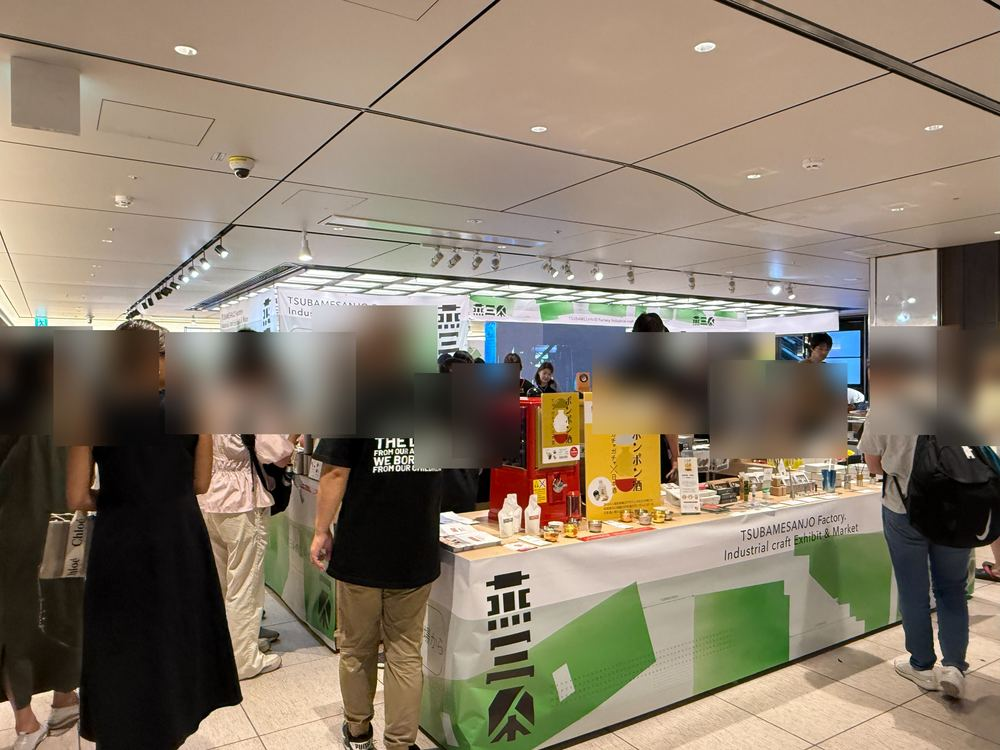
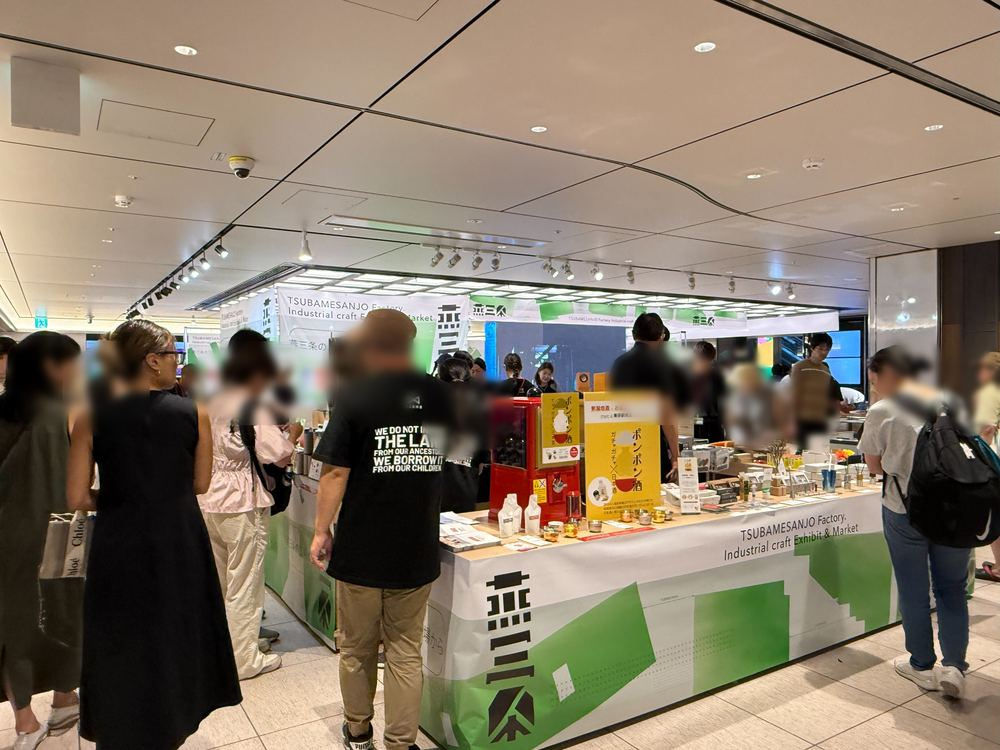
Address photo/content feedback: hero, blur, zones, exhibitor cards, floor map
- Hero: replace the crowded event photo with a no-people product shot
  (諏訪田製作所's corkscrew display) so the page doesn't need any face
  blurring at the top, and regenerate the OGP image from it.
- Blur: rework about/gallery photo blurring to use a small, softly
  feathered ellipse per face instead of large hard-edged rectangles —
  much lighter and less conspicuous.
- Buyer persona: clarify "バイヤー" as "小売店・セレクトショップの仕入れ担当"
  so it reads as a specific role, not a vague label.
- Zones: add a real representative photo to each of the 4 zone cards
  that have one available (産業's grinding shot, IPS's tools, 有本製作所's
  CNC machine, フチオカ's building), and a matching color tile for the
  two zones without photos (ふるさと納税PR, 技術展示) for visual parity.
- Exhibitor cards: add missing blurb text for IPS, サクライ, プログラフ,
  有本製作所, フチオカ based on their actual product/facility photos, and
  give IPS/サクライ/プログラフ/フチオカ multi-photo thumbnail rows using
  every usable image from their folders instead of just one.
- Floor map: resize the zone blocks proportionally to the real
  reference layout (配置図0829) — FACTORY LIMITED spans full width as
  the largest booth count, THE TSUBAMESANJO/名品展 are half-width, and
  STOCK MARKET/ふるさと納税PR/技術展示 are the smaller specialty booths.

Claude-Session: https://claude.ai/code/session_01YXakf9L2fjwv2f7a5ytL6q

Changed region(s): [[0.0, 0.3987, 0.527, 0.644], [0.589, 0.4293, 1.0, 0.6133]]

diff --git a/index.html b/index.html
@@ -166,6 +166,11 @@
   /* ---------- コーナー ---------- */
   .z-grid{display:grid;grid-template-columns:repeat(2,1fr);gap:.9rem}
   .z-card{background:#fff;border:1px solid var(--navy);border-radius:10px;overflow:hidden}
+  .z-card .thumb{width:100%;height:150px;object-fit:cover;display:block}
+  .z-card .tile-ph{
+    width:100%;height:150px;display:flex;align-items:center;justify-content:center;
+    font-family:var(--latin);letter-spacing:.06em;font-size:1rem;text-align:center;padding:.5rem;
+  }
   .z-card .head{padding:.6rem 1rem;font-weight:900;font-size:.92rem;display:flex;align-items:baseline;gap:.5rem;flex-wrap:wrap}
   .z-card .head .en{font-family:var(--latin);font-size:1.15rem;letter-spacing:.06em;font-weight:400}
   .z-card .body{padding:.8rem 1rem 1rem;font-size:.84rem;color:var(--ink-soft);font-weight:500;line-height:1.75}
@@ -183,8 +188,12 @@
     border-radius:10px;padding:1.1rem 1.2rem;
   }
   .floormap .label{font-size:.68rem;letter-spacing:.16em;color:#9A6B2F;font-weight:700;margin-bottom:.7rem}
-  .fm-grid{display:grid;grid-template-columns:2fr 1fr 1fr;gap:.4rem}
+  .fm-grid{display:grid;grid-template-columns:repeat(6,1fr);gap:.4rem}
   .fm{border-radius:5px;min-height:44px;display:flex;align-items:center;justify-content:center;font-size:.72rem;font-weight:900;text-align:center;padding:.2rem}
+  .fm.fm-wide{min-height:52px;grid-column:1 / -1}
+  .fm.fm-half{grid-column:span 3}
+  .fm.fm-third{grid-column:span 2}
+  @media(max-width:520px){.fm.fm-half,.fm.fm-third{grid-column:1 / -1}}
   .floormap .note{font-size:.72rem;color:#8A857A;font-weight:500;margin-top:.6rem}
 
   /* ---------- 出展企業 ---------- */
@@ -195,6 +204,8 @@
     border-left:4px solid var(--gold);
   }
   .e-card .thumb{width:100%;height:140px;object-fit:cover;border-radius:8px;margin-bottom:.7rem;display:block}
+  .e-card .thumb-row{display:grid;grid-template-columns:repeat(3,1fr);gap:.4rem;margin-bottom:.7rem}
+  .e-card .thumb-row img{width:100%;height:90px;object-fit:cover;border-radius:6px;display:block}
   .e-card .tile{
     width:100%;height:140px;border-radius:8px;margin-bottom:.7rem;
     display:flex;align-items:center;justify-content:center;text-align:center;padding:.5rem;
@@ -339,7 +350,7 @@
     </div>
 
     <div class="hero-photo photo">
-      <img src="img/hero.jpg" alt="燕三条POPUP & SHOWCASE 会場の様子（2025年開催時）" loading="eager">
+      <img src="img/hero.jpg" alt="燕三条の職人が手がけた製品（2025年開催時の展示より）" loading="eager">
     </div>
   </div>
 </header>
@@ -405,7 +416,7 @@
       </div>
       <div class="v-card">
         <span class="en">BUYER</span>
-        <h3>バイヤー</h3>
+        <h3>小売店・セレクトショップの仕入れ担当</h3>
         <p>次に扱う商材探しに。会場と同施設内の個室でそのまま商談できます。</p>
       </div>
     </div>
@@ -421,36 +432,42 @@
     <div class="z-grid">
       <div class="z-card">
         <div class="head c-gold"><span class="en">THE TSUBAMESANJO</span></div>
+        <img class="thumb" src="img/zone-tsubamesanjo.jpg" alt="諏訪田製作所の刃物研磨の様子">
         <div class="body">「見たことある」燕三条の定番製品を、実際に触れて購入できるメインコーナー。まずはここから。
           <p class="zone-co">出展：諏訪田製作所／山谷産業／タケダ／燕物産</p>
         </div>
       </div>
       <div class="z-card">
         <div class="head c-fire"><span class="en">FACTORY LIMITED</span></div>
+        <img class="thumb" src="img/zone-factorylimited.jpg" alt="株式会社IPSの工具製品">
         <div class="body">工場限定品・試作品・少量流通品など、市場にほとんど出回らない製品を工場直販で。
           <p class="zone-co">出展：IPS／テーエム／アイマーク／アルチザン／水野製作所／丸山製作所／プログラフ／熊倉シャーリング／大倉製作所／いすゞ製作所／サクライ／ツボエ</p>
         </div>
       </div>
       <div class="z-card">
         <div class="head c-steel"><span class="en">STOCK MARKET</span></div>
+        <img class="thumb" src="img/zone-stockmarket.jpg" alt="株式会社有本製作所の工場設備">
         <div class="body">デッドストックや規格外品を扱う掘り出し物コーナー。一期一会の出会いと価格が楽しめます。
           <p class="zone-co">出展：旭金属工業／有本製作所</p>
         </div>
       </div>
       <div class="z-card">
         <div class="head c-copper"><span class="en">MEIHIN-TEN</span>燕三条 名品展</div>
+        <img class="thumb" src="img/zone-meihinten.jpg" alt="株式会社フチオカの外観">
         <div class="body">高級包丁や銅器などの逸品を、ギャラリーのように展示。工芸としての燕三条を鑑賞できます。
           <p class="zone-co">出展：後藤鉄工所／フチオカ／下村工業／須佐真（金工作家）</p>
         </div>
       </div>
       <div class="z-card">
         <div class="head c-plum">ふるさと納税PR</div>
+        <div class="tile-ph" style="background:#5B4A7A;color:#fff">ふるさと納税PR</div>
         <div class="body">燕三条エリアの自治体による地域の魅力とふるさと納税のPRコーナー。
           <p class="zone-co">三条市ふるさと納税</p>
         </div>
       </div>
       <div class="z-card">
         <div class="head c-navy">技術展示</div>
+        <div class="tile-ph" style="background:#24304A;color:var(--paper)">技術展示・商談</div>
         <div class="body">プレス・溶接・研磨など、こうばの技術そのものを展示。製造依頼や商談の相談はこちらから。
           <p class="zone-co">出展：後藤鉄工所</p>
         </div>
@@ -460,14 +477,14 @@
     <div class="floormap">
       <div class="label">FLOOR MAP</div>
       <div class="fm-grid">
-        <div class="fm" style="background:var(--gold);color:var(--navy)">THE TSUBAMESANJO</div>
-        <div class="fm" style="background:var(--fire);color:#fff">FACTORY<br>LIMITED</div>
-        <div class="fm" style="background:#39404C;color:#fff">STOCK<br>MARKET</div>
-        <div class="fm" style="background:#B0662F;color:#fff">名品展</div>
-        <div class="fm" style="background:#5B4A7A;color:#fff">ふるさと納税PR</div>
-        <div class="fm" style="background:#24304A;color:#fff">技術展示・商談</div>
+        <div class="fm fm-wide" style="background:var(--fire);color:#fff">FACTORY LIMITED（入口側の通路沿い）</div>
+        <div class="fm fm-half" style="background:var(--gold);color:var(--navy)">THE TSUBAMESANJO（メインエリア）</div>
+        <div class="fm fm-half" style="background:#B0662F;color:#fff">名品展</div>
+        <div class="fm fm-third" style="background:#39404C;color:#fff">STOCK MARKET</div>
+        <div class="fm fm-third" style="background:#5B4A7A;color:#fff">ふるさと納税PR</div>
+        <div class="fm fm-third" style="background:#24304A;color:#fff">技術展示・商談ゾーン</div>
       </div>
-      <p class="note">※ 出展社の配置は変更となる場合があります。最新情報は会場内の表示でご確認ください。</p>
+      <p class="note">※ 実際の配置図をもとにした簡易図です。出展社の配置は変更となる場合があります。最新情報は会場内の表示でご確認ください。</p>
     </div>
   </div>
 </section>
@@ -511,16 +528,31 @@
         <p>燕市の金属加工、高岡の伝統着色技法、山中漆器など、日本各地の手仕事を掛け合わせ、日常に静かな豊かさをもたらすものづくりを行っています。</p>
       </div>
       <div class="e-card">
-        <img class="thumb" src="img/exhibitor-ips.jpg" alt="株式会社IPSの製品">
+        <div class="thumb-row">
+          <img src="img/exhibitor-ips.jpg" alt="株式会社IPSの製品陳列">
+          <img src="img/exhibitor-ips-2.jpg" alt="株式会社IPSのプライヤー">
+          <img src="img/exhibitor-ips-3.jpg" alt="株式会社IPSの製造工程">
+        </div>
         <h3>株式会社IPS</h3>
+        <p>水道・配管まわりの作業に使うプライヤーやレンチなどのハンドツールメーカー。握りやすいグリップなど、使い手目線の工夫を凝らした工具を展開しています。</p>
       </div>
       <div class="e-card">
-        <img class="thumb" src="img/exhibitor-sakurai.jpg" alt="株式会社サクライの工場の様子">
+        <div class="thumb-row">
+          <img src="img/exhibitor-sakurai.jpg" alt="株式会社サクライの工場の様子">
+          <img src="img/exhibitor-sakurai-2.jpg" alt="株式会社サクライのフォーク製造工程">
+          <img src="img/exhibitor-sakurai-3.jpg" alt="株式会社サクライのカトラリー製品">
+        </div>
         <h3>株式会社サクライ</h3>
+        <p>プレス機がずらりと並ぶ工場で、フォークやスプーンなどの金属洋食器を製造。燕三条のものづくりを足元から支える技術力が強みです。</p>
       </div>
       <div class="e-card">
-        <img class="thumb" src="img/exhibitor-purograph.jpg" alt="プログラフ株式会社の外観">
+        <div class="thumb-row">
+          <img src="img/exhibitor-purograph.jpg" alt="プログラフ株式会社の外観">
+          <img src="img/exhibitor-purograph-2.jpg" alt="プログラフ株式会社のパッケージ製品">
+          <img src="img/exhibitor-purograph-3.jpg" alt="プログラフ株式会社の製造設備">
+        </div>
         <h3>プログラフ株式会社</h3>
+        <p>「MATERIALIZING VISIONS」を掲げ、金属加工技術を生かしたデザイン・試作から製造まで手がけるものづくり企業です。</p>
       </div>
       <div class="e-card">
         <div class="tile" style="background:#39404C;color:var(--paper)">STOCK<br>MARKET</div>
@@ -530,10 +562,15 @@
       <div class="e-card">
         <img class="thumb" src="img/exhibitor-arimoto.jpg" alt="株式会社有本製作所の工場の様子">
         <h3>株式会社有本製作所</h3>
+        <p>NC旋盤による精密な金属加工を得意とする企業。オーダーメイドの部品づくりから量産まで、幅広い加工ニーズに対応しています。</p>
       </div>
       <div class="e-card">
-        <img class="thumb" src="img/exhibitor-fuchioka.jpg" alt="株式会社フチオカの外観">
+        <div class="thumb-row" style="grid-template-columns:1fr 1fr">
+          <img src="img/exhibitor-fuchioka.jpg" alt="株式会社フチオカの外観">
+          <img src="img/exhibitor-fuchioka-2.jpg" alt="株式会社フチオカの研磨布製品">
+        </div>
         <h3>株式会社フチオカ</h3>
+        <p>研磨布・研磨材を扱う専門メーカー。金属を美しく仕上げるための資材を、燕三条のこうばに届けています。</p>
       </div>
     </div>
     <p class="e-note">ほかにも出展企業が決まり次第、順次掲載します。</p>
